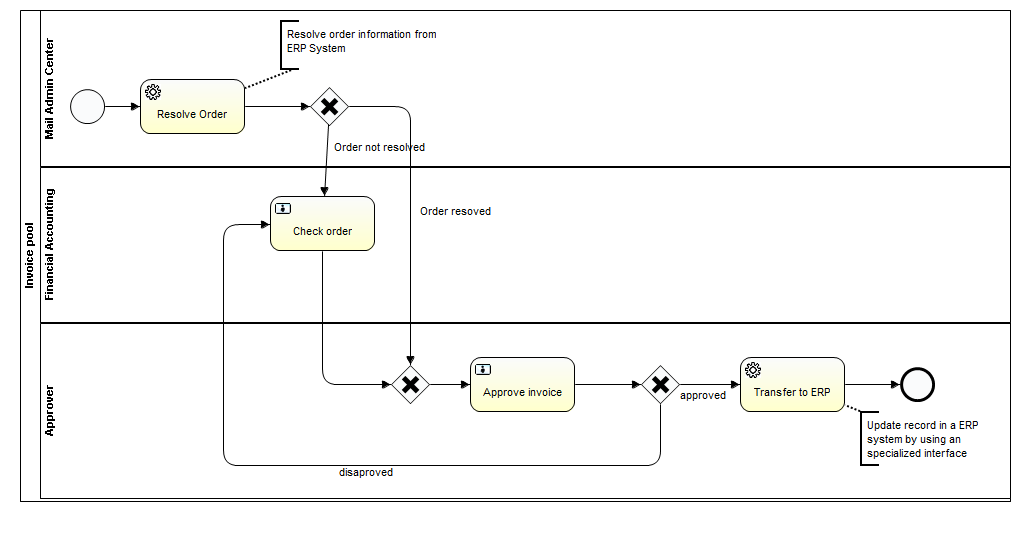
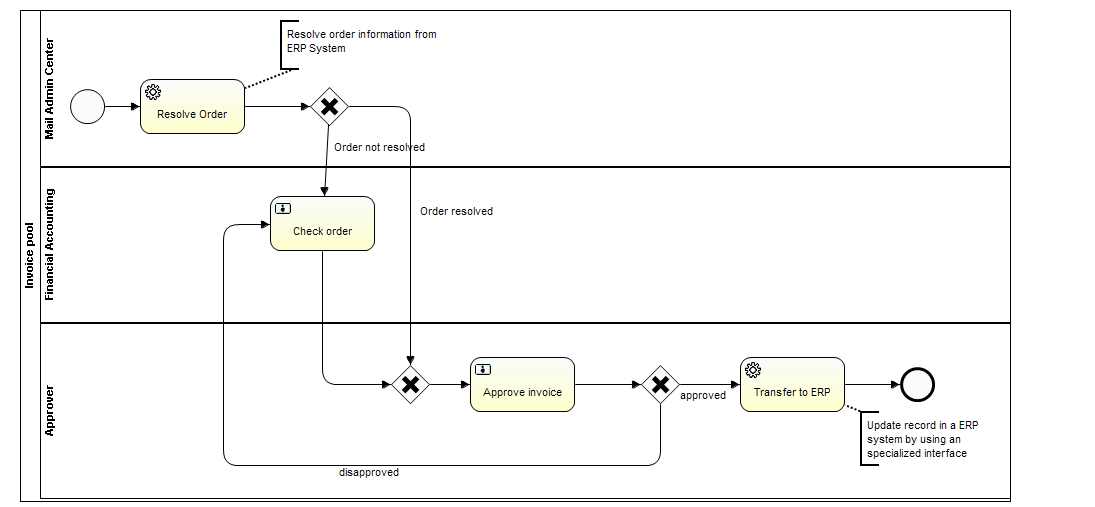
qa

diff --git a/src/main/java/de/agito/bpmo/sample/invoice/InvoiceController.java b/src/main/java/de/agito/bpmo/sample/invoice/InvoiceController.java
@@ -38,7 +38,9 @@ import javax.xml.datatype.DatatypeConstants;
  */
 // @@end
 @BPMO(id = "Invoice", version = "1.0.0", xml = "de/agito/bpmo/sample/invoice/Invoice.bpmo")
-public class InvoiceController extends BPMOController<InvoiceAccess, InvoiceAction, InvoiceLifecycle, InvoiceLanguage, InvoiceProcessActivity, Invoice> {
+public class InvoiceController
+		extends
+		BPMOController<InvoiceAccess, InvoiceAction, InvoiceLifecycle, InvoiceLanguage, InvoiceProcessActivity, Invoice> {
 
 	public InvoiceController(IBPMOControllerContext context) {
 		super(context);
@@ -64,7 +66,7 @@ public class InvoiceController extends BPMOController<InvoiceAccess, InvoiceActi
 								DataTypeFactory
 										.getInstance()
 										.createMessage(MessageSeverity.ERROR,
-												"ivalid Date", //$NON-NLS-1$
+												"invalid Date", //$NON-NLS-1$
 												String.format(
 														Texts.getString("InvoiceController.InvoiceReceivedValidation"), invoiceDate.getDefinition().getLabel() //$NON-NLS-1$
 																.getText())));
